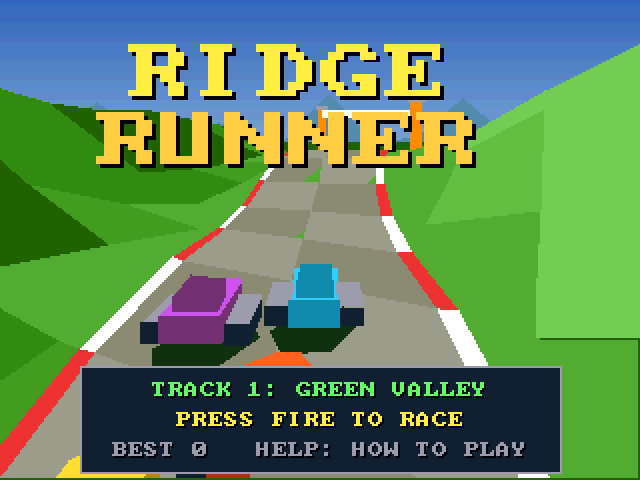
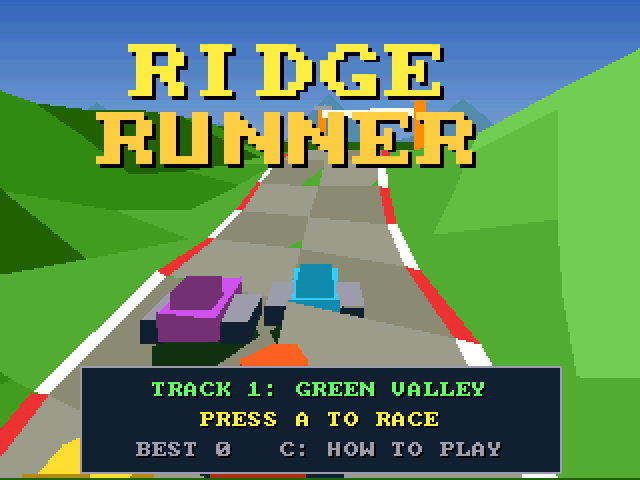
docs/games.md: the three tile games and the twelve amiga3d games
Adds Emberkeep, Warden Keep and Miner Meteor (port-tiles' entries) and the
twelve amiga3d games to the speed table and the game list, with title and
play screenshots. The amiga3d games step logic 25 times a second; their
frame rates are from ./3do test. Screenshots refreshed by a regression run
on merged main (all 11 tested games pass).

diff --git a/docs/games.md b/docs/games.md
@@ -20,7 +20,9 @@ menu. The bar to the right of the list shows where you are.
 Every game keeps its Amiga speed: logic runs at 50 steps per second
 (the PAL frame rate), and the 3D games that draw fewer frames catch
 up on logic steps (`gfx_steps()`) rather than slowing down.
-Measured in the emulator by `./3do selftest`.
+Measured in the emulator by `./3do selftest`. The amiga3d games
+(Block Breaker 3D onwards) step their logic 25 times a second, as on the
+Amiga; their frame rates come from `./3do test`.
 
 | Game | logic steps/s | frames drawn/s |
 |---|---|---|
@@ -45,6 +47,21 @@ Measured in the emulator by `./3do selftest`.
 | [Planet Chomp](#planet-chomp) | 49 | 14 |
 | [Spectral Keep](#spectral-keep) | 50 | 50 |
 | [Rolling Steel](#rolling-steel) | 50 | 18 |
+| [Emberkeep](#emberkeep) | 50 | 50 |
+| [Warden Keep](#warden-keep) | 50 | 50 |
+| [Miner Meteor](#miner-meteor) | 50 | 50 |
+| [Block Breaker 3D](#block-breaker-3d) | 25 | 15 |
+| [Marble Tilt](#marble-tilt) | 25 | 11 |
+| [Harbour Crane](#harbour-crane) | 25 | 14 |
+| [Tank Duel](#tank-duel) | 25 | 14 |
+| [Orbit Docking](#orbit-docking) | 25 | 13 |
+| [Stack Tower](#stack-tower) | 25 | 5.5 |
+| [Ridge Runner](#ridge-runner) | 25 | 9 |
+| [Drone Courier](#drone-courier) | 25 | 17 |
+| [Canyon Rail](#canyon-rail) | 25 | 15 |
+| [Lander 3D](#lander-3d) | 25 | 3.8 |
+| [Boing Pinball](#boing-pinball) | 25 | 25 |
+| [ScAIry Fun](#scairy-fun) | 25 | 4.5 |
 
 ## Games
 
@@ -236,3 +253,138 @@ Roll a steel marble down six floating courses against one clock that carries ove
 Marble racer · `projects/rolling_steel` · from the Unity version
 
 ![Rolling Steel title](images/games/rolling_steel-title.png) ![Rolling Steel play](images/games/rolling_steel-play.png)
+
+### Emberkeep
+<a id="emberkeep"></a>
+
+Top-down cavern explorer by lantern light: collect the runes to open the exit portal and keep the lamp burning with oil flasks. D-pad walks, A or P starts. C on the title plays a demo of chamber 1.
+
+Explore · `projects/emberkeep` · from the Amiga version
+
+![Emberkeep title](images/games/emberkeep-title.png) ![Emberkeep play](images/games/emberkeep-play.png)
+
+### Warden Keep
+<a id="warden-keep"></a>
+
+Isometric room adventure: push the barrels and collect the three jewels. D-pad steps one tile (hold to repeat), A or P starts.
+
+Iso adventure · `projects/warden_keep` · from the Amiga version
+
+![Warden Keep title](images/games/warden_keep-title.png) ![Warden Keep play](images/games/warden_keep-play.png)
+
+### Miner Meteor
+<a id="miner-meteor"></a>
+
+Single-screen platformer: collect the keys and reach the exit before the air runs out, past spikes, conveyors, collapsing floors and guardians. LEFT/RIGHT walk, A, B or UP jumps, A or P starts. C on the title plays a demo of cavern 1.
+
+Platform · `projects/miner_meteor` · from the Amiga version
+
+![Miner Meteor title](images/games/miner_meteor-title.png) ![Miner Meteor play](images/games/miner_meteor-play.png)
+
+### Block Breaker 3D
+<a id="block-breaker-3d"></a>
+
+Breakout down a tunnel: a paddle across the near opening, bricks 3 deep at the far end. D-pad moves, A serves, B autopilot, C help, P pause, L title.
+
+Breakout · `projects/block_breaker_3d` · from the Amiga version (amiga3d engine)
+
+![Block Breaker 3D title](images/games/block_breaker_3d-title.png) ![Block Breaker 3D play](images/games/block_breaker_3d-play.png)
+
+### Marble Tilt
+<a id="marble-tilt"></a>
+
+Tilt a maze board to roll a marble to the exit against the clock: holes, gates, bumpers, sand. D-pad tilts, A starts, B autopilot, C help, P pause, L title.
+
+Puzzle · `projects/marble_tilt` · from the Amiga version (amiga3d engine)
+
+![Marble Tilt title](images/games/marble_tilt-title.png) ![Marble Tilt play](images/games/marble_tilt-play.png)
+
+### Harbour Crane
+<a id="harbour-crane"></a>
+
+Load a rolling ship with a swinging gantry crane: land containers square, keep her level, beat the clock. D-pad trolley/winch, A grab/let go, B autopilot, C help, P pause, L title.
+
+Simulation · `projects/harbour_crane` · from the Amiga version (amiga3d engine)
+
+![Harbour Crane title](images/games/harbour_crane-title.png) ![Harbour Crane play](images/games/harbour_crane-play.png)
+
+### Tank Duel
+<a id="tank-duel"></a>
+
+A tank fight in a walled arena, from the turret, with a radar. D-pad drives and turns, A fires, B autopilot, C help, P pause, L title.
+
+3d action · `projects/tank_duel` · from the Amiga version (amiga3d engine)
+
+![Tank Duel title](images/games/tank_duel-title.png) ![Tank Duel play](images/games/tank_duel-play.png)
+
+### Orbit Docking
+<a id="orbit-docking"></a>
+
+Dock with a spinning space station: line up, match the spin, close slowly. D-pad moves across, A in, C out, L/R roll, B autopilot, P pause.
+
+Space sim · `projects/orbit_docking` · from the Amiga version (amiga3d engine)
+
+![Orbit Docking title](images/games/orbit_docking-title.png) ![Orbit Docking play](images/games/orbit_docking-play.png)
+
+### Stack Tower
+<a id="stack-tower"></a>
+
+Falling blocks round a tower: rings clear only when the back is full too. D-pad turns/rotates/drops, A hard drop, B rotate back, C hold, L ghost, R help, P pause.
+
+Puzzle · `projects/stack_tower` · from the Amiga version (amiga3d engine)
+
+![Stack Tower title](images/games/stack_tower-title.png) ![Stack Tower play](images/games/stack_tower-play.png)
+
+### Ridge Runner
+<a id="ridge-runner"></a>
+
+Hover-bike racing over generated hills: gates, jumps, boost, three rivals. D-pad steers/throttles/brakes, A boost, B autopilot, C help, P pause, L title.
+
+Racing · `projects/ridge_runner` · from the Amiga version (amiga3d engine)
+
+![Ridge Runner title](images/games/ridge_runner-title.png) ![Ridge Runner play](images/games/ridge_runner-play.png)
+
+### Drone Courier
+<a id="drone-courier"></a>
+
+Deliver parcels across a city of towers by drone: wind, battery, fragile loads. D-pad flies and turns, A climbs, B autopilot, C help, P pause, L title.
+
+Flight · `projects/drone_courier` · from the Amiga version (amiga3d engine)
+
+![Drone Courier title](images/games/drone_courier-title.png) ![Drone Courier play](images/games/drone_courier-play.png)
+
+### Canyon Rail
+<a id="canyon-rail"></a>
+
+A rail shooter down a winding canyon: turrets, drones, a guardian at the end. D-pad moves the sight, A fires, B autopilot, C help, P pause, L title.
+
+Shooter · `projects/canyon_rail` · from the Amiga version (amiga3d engine)
+
+![Canyon Rail title](images/games/canyon_rail-title.png) ![Canyon Rail play](images/games/canyon_rail-play.png)
+
+### Lander 3D
+<a id="lander-3d"></a>
+
+Land on generated terrain: the Moon, Mars, an asteroid. D-pad pitches and rolls, A full thrust, B/C steady throttle, R help, P pause, L title. (Slow on the 3DO: 4-5 fps.)
+
+3d flight · `projects/lander_3d` · from the Amiga version (amiga3d engine)
+
+![Lander 3D title](images/games/lander_3d-title.png) ![Lander 3D play](images/games/lander_3d-play.png)
+
+### Boing Pinball
+<a id="boing-pinball"></a>
+
+Three pinball tables with the Boing ball: ramps, spinners, missions, multiball. L/R flippers, A plunger, D-pad up nudges, B bot, C help, P pause.
+
+Pinball · `projects/boing_pinball` · from the Amiga version (amiga3d engine)
+
+![Boing Pinball title](images/games/boing_pinball-title.png) ![Boing Pinball play](images/games/boing_pinball-play.png)
+
+### ScAIry Fun
+<a id="scairy-fun"></a>
+
+The self-driving car game: know when not to trust it. A takes over / hands back, D-pad steers and brakes, B view, C help, P pause, L title. (Slow on the 3DO: 4-5 fps.)
+
+Driving · `projects/scairy_fun` · from the Amiga version (amiga3d engine)
+
+![ScAIry Fun title](images/games/scairy_fun-title.png) ![ScAIry Fun play](images/games/scairy_fun-play.png)
